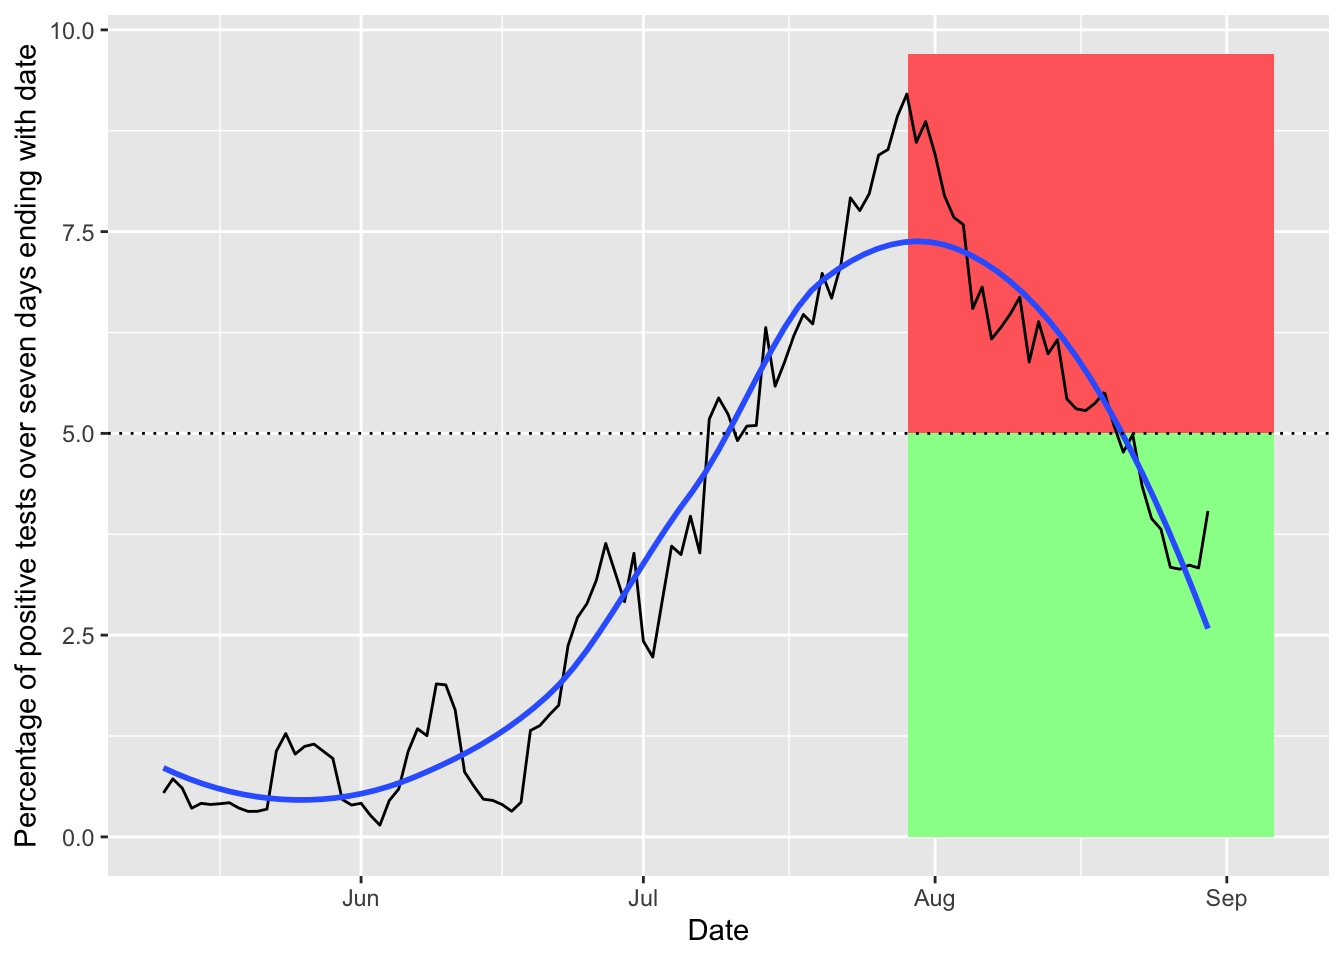
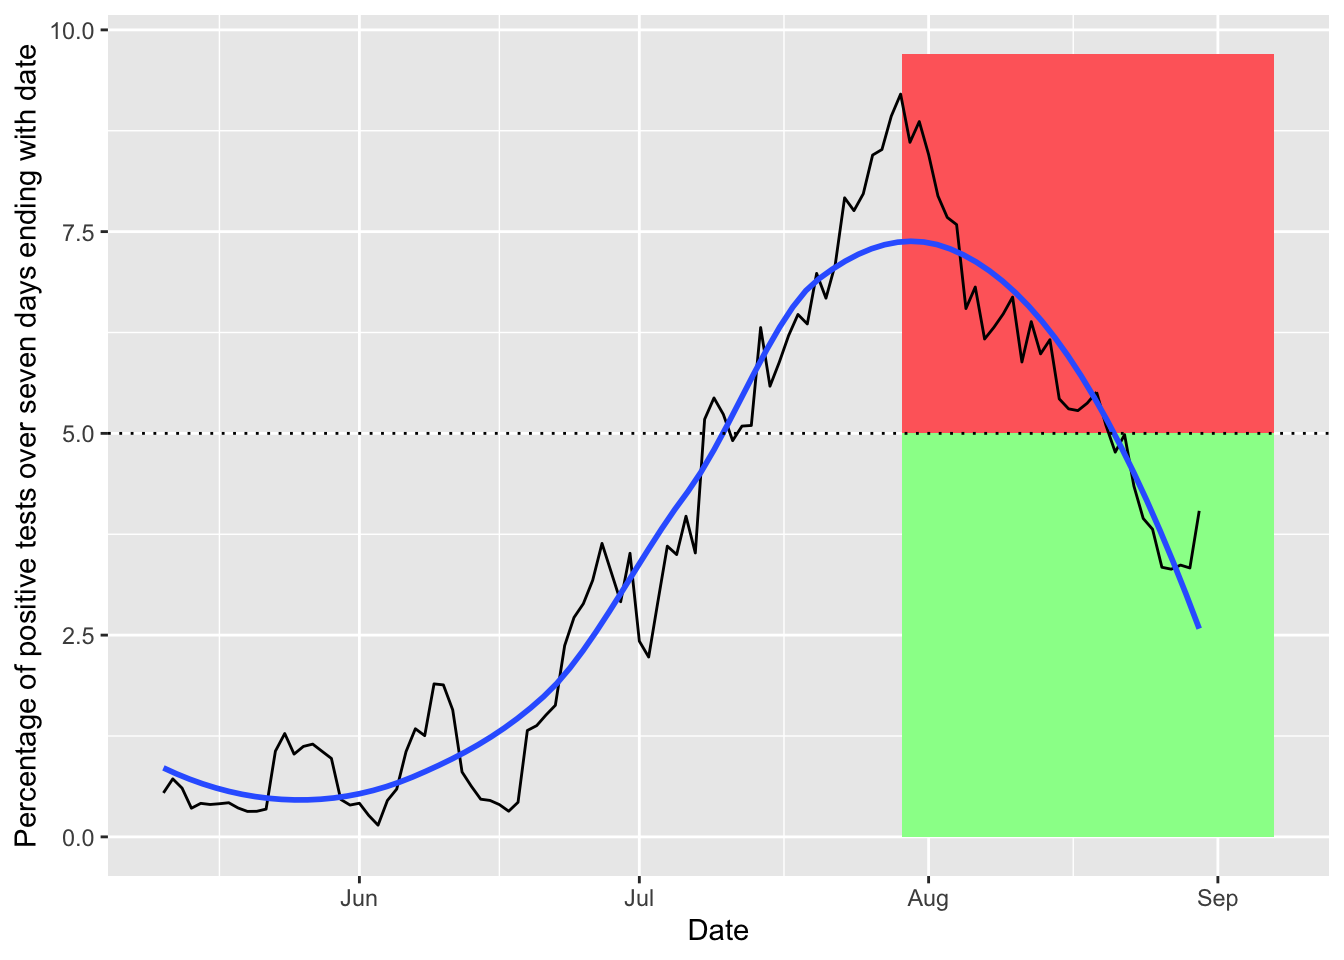
updating site

diff --git a/docs/covid.html b/docs/covid.html
@@ -424,7 +424,7 @@ $(document).ready(function () {
 <li>Info about cases at <a href="#ut">U. of Tennessee, Knoxville</a> (using public information only)</li>
 <li><a href="#webcams">Webcams</a> showing activity at local sites, though not quite at the resolution to point to mask usage or not</li>
 </ul>
-<p>The following plots are created in R using data from <a href="https://covid19datahub.io" class="uri">https://covid19datahub.io</a> (Guidotti, E., Ardia, D., (2020), “COVID-19 Data Hub”, Working paper, doi: 10.13140/RG.2.2.11649.81763), as well as information from Google and the <a href="https://www.tn.gov/health/cedep/ncov/data/downloadable-datasets.html">state of Tennessee dataset page</a> and plotting and analysis using the <code>forecast</code>, <code>ggplot2</code>, <code>reshape2</code>, and <code>dplyr</code> packages. Plots created on 2020-08-30 19:26:22. I use <code>ggplot2</code>’s <code>geom_smooth()</code> function for the smoothed regression plots with its default formula, which uses loess smoothing for this many points. This is not based on a model of disease spread or anything similarly sophisticated, just drawing a smooth curve to summarize noisy points (see <a href="https://www.itl.nist.gov/div898/handbook/pmd/section1/pmd144.htm">here</a> for more details).</p>
+<p>The following plots are created in R using data from <a href="https://covid19datahub.io" class="uri">https://covid19datahub.io</a> (Guidotti, E., Ardia, D., (2020), “COVID-19 Data Hub”, Working paper, doi: 10.13140/RG.2.2.11649.81763), as well as information from Google and the <a href="https://www.tn.gov/health/cedep/ncov/data/downloadable-datasets.html">state of Tennessee dataset page</a> and plotting and analysis using the <code>forecast</code>, <code>ggplot2</code>, <code>reshape2</code>, and <code>dplyr</code> packages. Plots created on 2020-08-31 08:34:58. I use <code>ggplot2</code>’s <code>geom_smooth()</code> function for the smoothed regression plots with its default formula, which uses loess smoothing for this many points. This is not based on a model of disease spread or anything similarly sophisticated, just drawing a smooth curve to summarize noisy points (see <a href="https://www.itl.nist.gov/div898/handbook/pmd/section1/pmd144.htm">here</a> for more details).</p>
 <h2 id="cases">
 Cases
 </h2>
@@ -460,7 +460,7 @@ Schooling
 <h2 id="hospitalization">
 Hospitalization
 </h2>
-<p>As of the last time the data were updated (likely 4 days ago), regional hospitals had 57 ICU beds available of 278 total, and 147 available ventilators out of 243 total. This is based on 19 acute care hospitals in the East TN region; based on the 14 counties these hospitals are in, these serve at least 1,235,720 people. When a line hits 100%, the local hospitals are theoretically full for that resource (for all patients, not just covid patients), though there is surge capacity on top of this. Note that these data are updated only weekly, so current conditions maybe be much better or worse than these plots show. Data on capacity from Knox County’s dashboard, data on hospitalizations and testing over time from the state data.</p>
+<p>As of the last time the data were updated (likely 5 days ago), regional hospitals had 57 ICU beds available of 278 total, and 147 available ventilators out of 243 total. This is based on 19 acute care hospitals in the East TN region; based on the 14 counties these hospitals are in, these serve at least 1,235,720 people. When a line hits 100%, the local hospitals are theoretically full for that resource (for all patients, not just covid patients), though there is surge capacity on top of this. Note that these data are updated only weekly, so current conditions maybe be much better or worse than these plots show. Data on capacity from Knox County’s dashboard, data on hospitalizations and testing over time from the state data.</p>
 <p><img src="covid_files/figure-html/hospitalcapacityplot-1.png" width="672" /></p>
 <p>Trends in hospitalization of covid patients over time. The vertical dotted line shows the last day with updated capacity information, when there were 57 ICU beds available (ignoring surge capacity) for people in the East Tennessee region.</p>
 <p><img src="covid_files/figure-html/plotsD-1.png" width="672" /></p>
